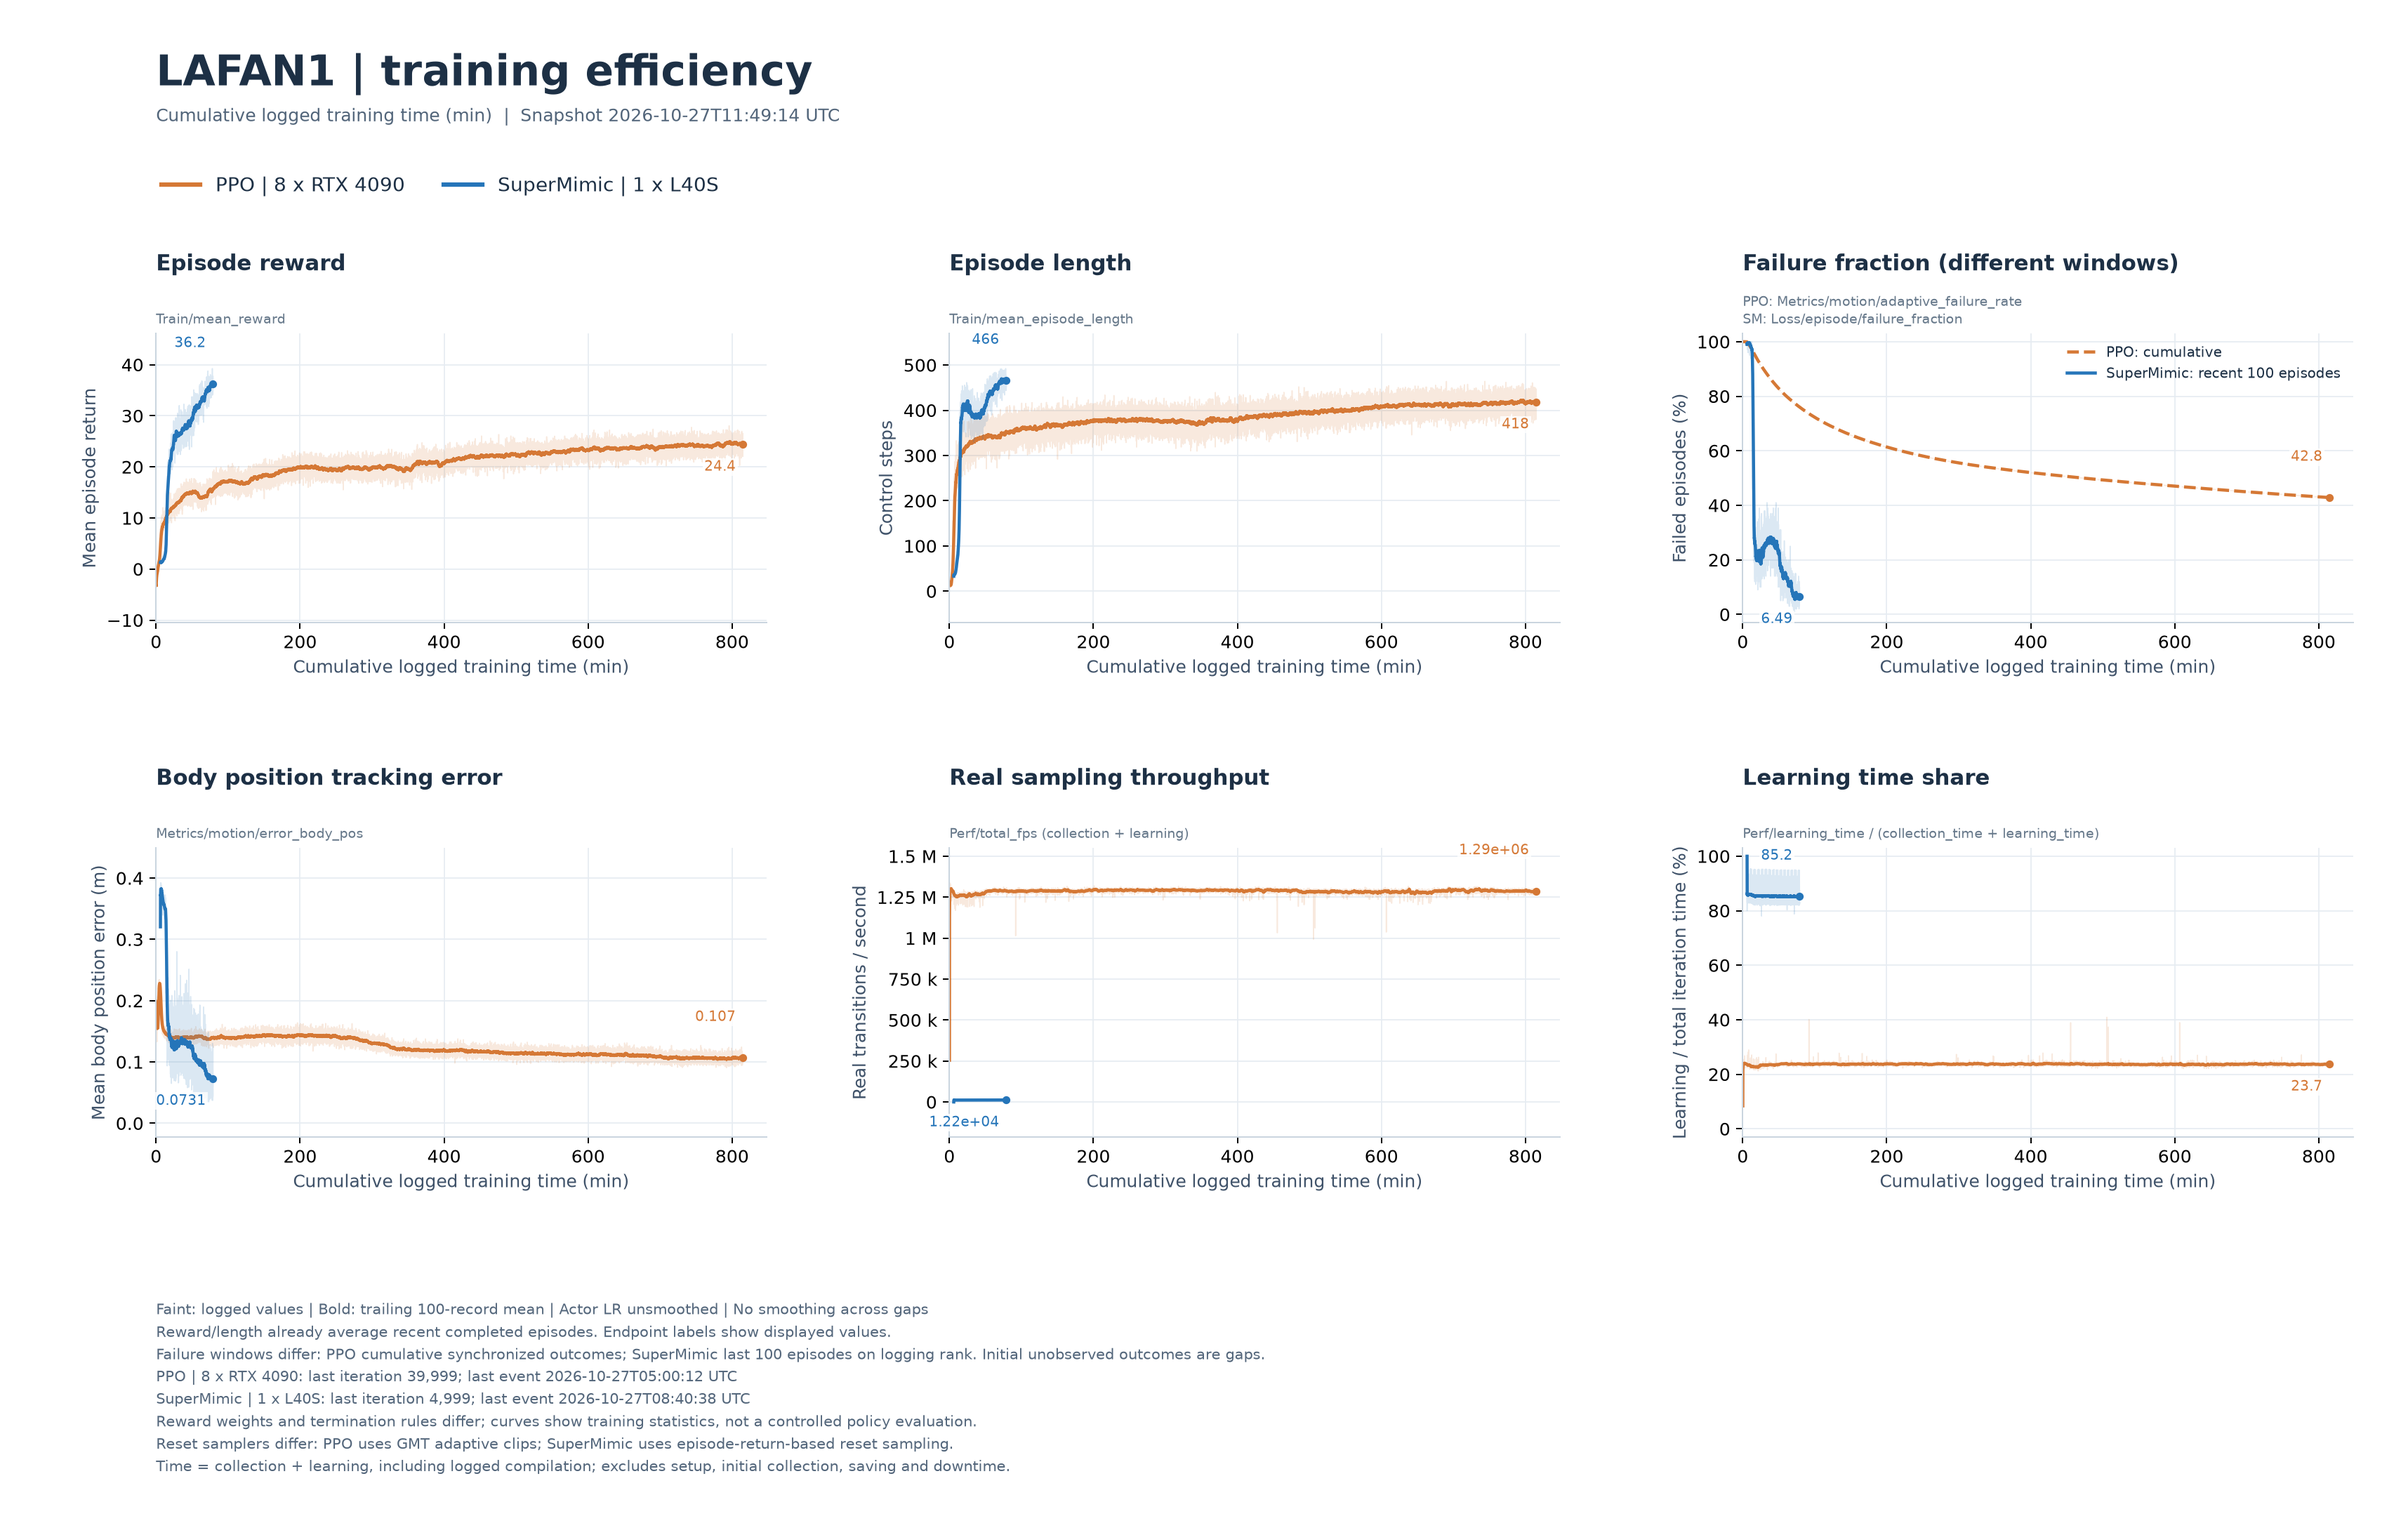
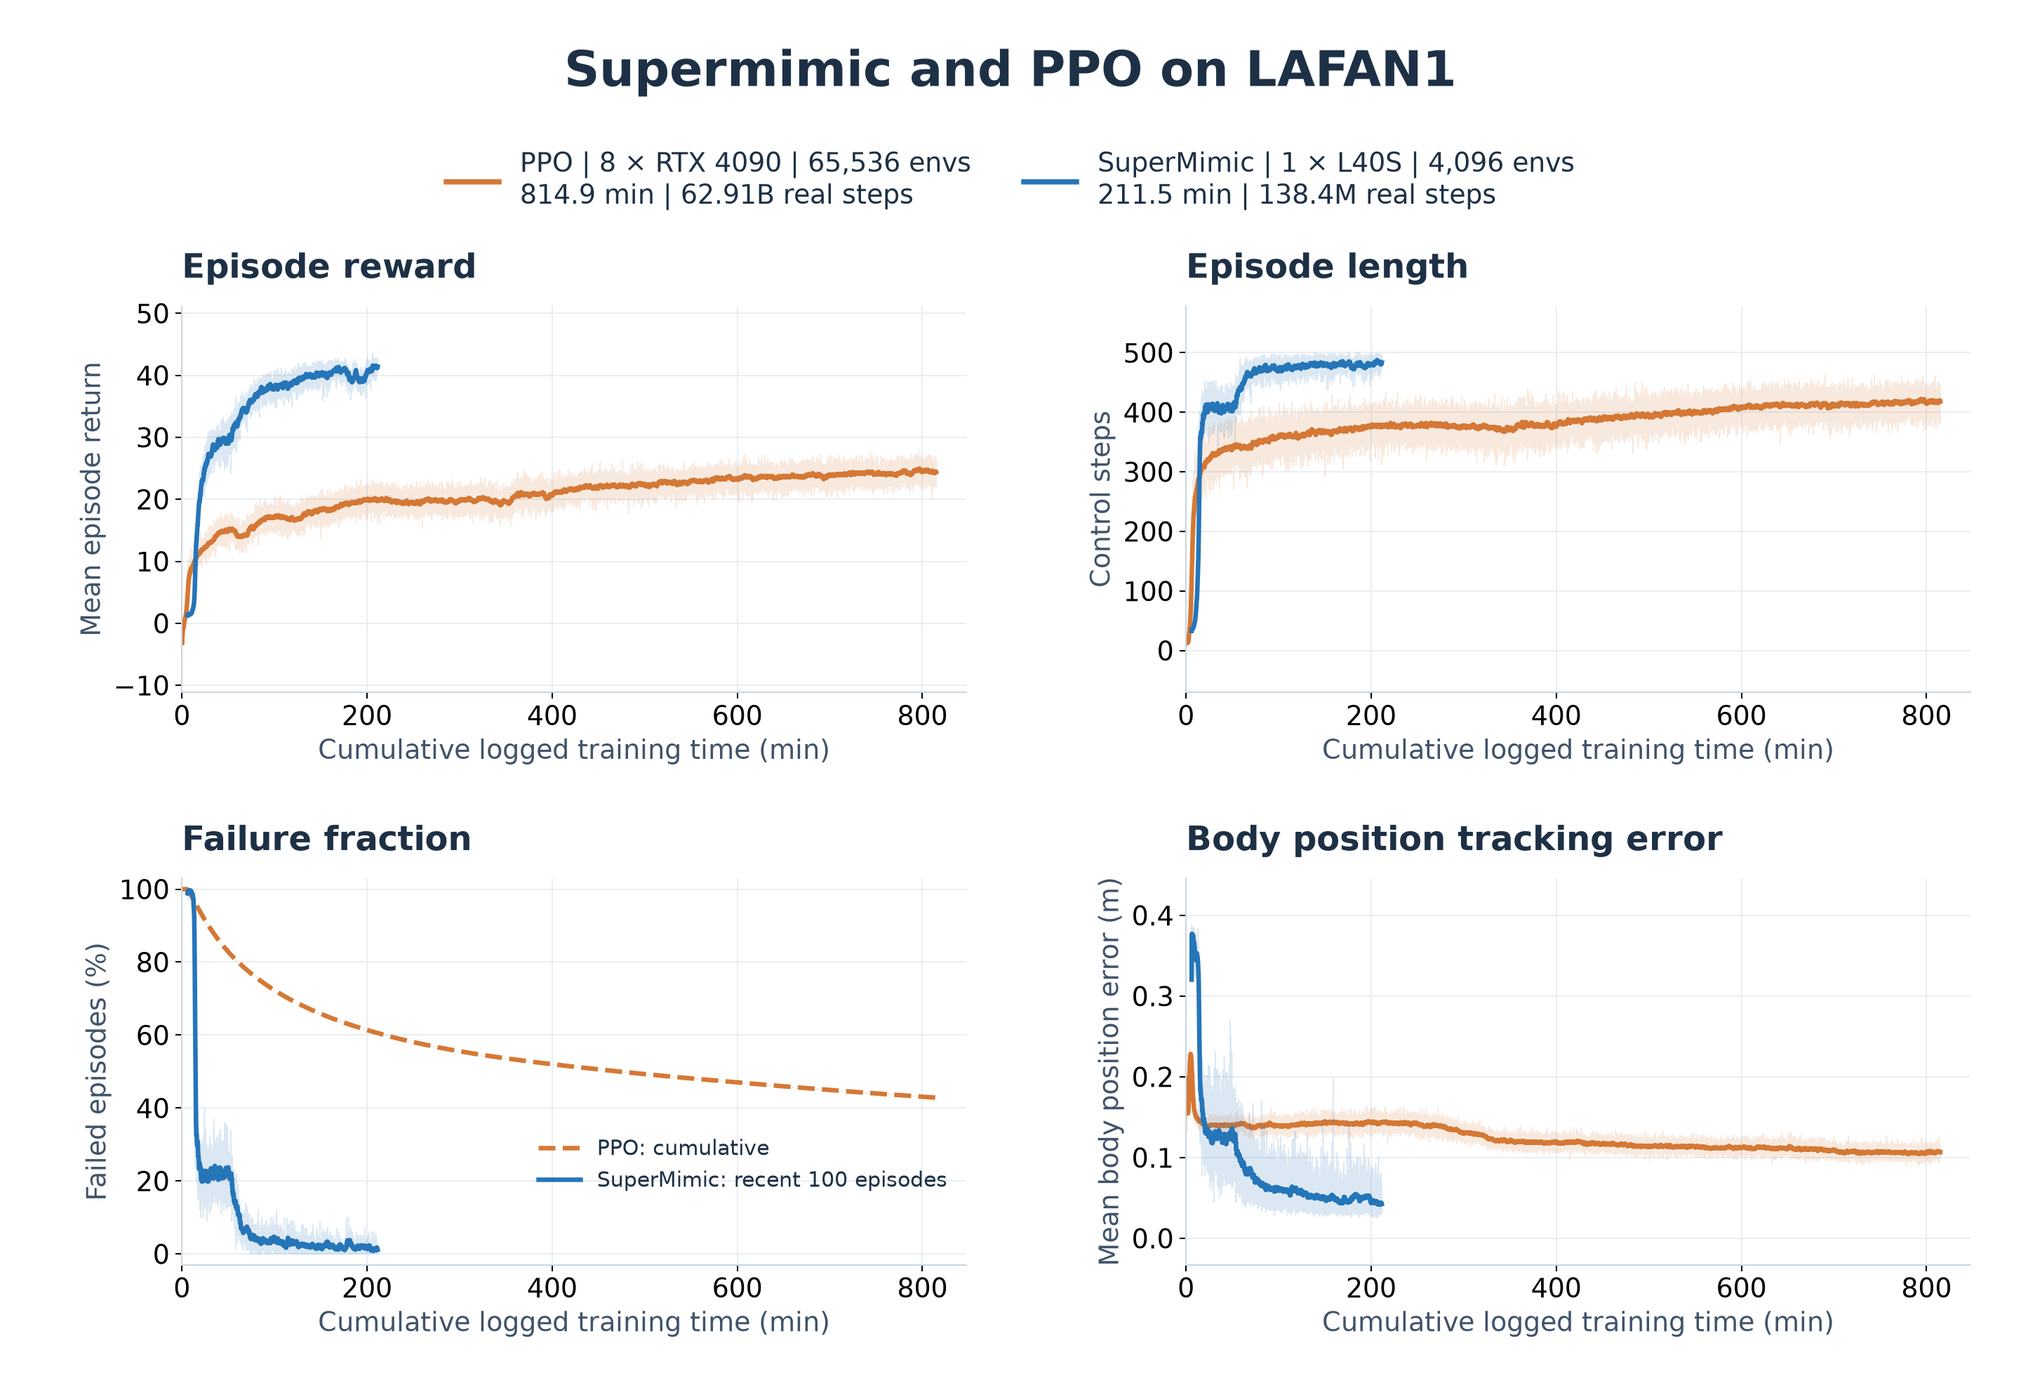
update results

diff --git a/src/supermimic/cli/plot.py b/src/supermimic/cli/plot.py
@@ -70,7 +70,7 @@ COMPARISON_PANELS = (
     "Train/mean_episode_length",
   ),
   Panel(
-    "Failure fraction (different windows)",
+    "Failure fraction",
     "Failed episodes (%)",
     (FAILURE,),
     "PPO: Metrics/motion/adaptive_failure_rate\nSM: Loss/episode/failure_fraction",
@@ -80,18 +80,6 @@ COMPARISON_PANELS = (
     "Mean body position error (m)",
     ("Metrics/motion/error_body_pos",),
     "Metrics/motion/error_body_pos",
-  ),
-  Panel(
-    "Real sampling throughput",
-    "Real transitions / second",
-    ("Perf/total_fps",),
-    "Perf/total_fps (collection + learning)",
-  ),
-  Panel(
-    "Learning time share",
-    "Learning / total iteration time (%)",
-    (LEARNING_SHARE,),
-    "Perf/learning_time / (collection_time + learning_time)",
   ),
 )
 SUPERMIMIC_PANELS = (
@@ -135,7 +123,7 @@ SUPERMIMIC_PANELS = (
 PANEL_GROUPS = {"comparison": COMPARISON_PANELS, "supermimic": SUPERMIMIC_PANELS}
 METRIC_TAGS = tuple(
   tag for panels in PANEL_GROUPS.values() for panel in panels for tag in panel.tags
-)
+) + ("Perf/total_fps", LEARNING_SHARE)
 CAPTURE_TAGS = tuple(
   dict.fromkeys(
     (
@@ -280,6 +268,14 @@ def read_sources(sources: list[Source]) -> list[Run]:
       raise ValueError(f"{source.path}: no supported training metrics recorded")
     for run in group:
       run.metadata.update(source.metadata)
+      max_iteration = run.metadata.get("max_iteration")
+      if max_iteration is not None:
+        if type(max_iteration) is not int or max_iteration < 0:
+          raise ValueError(f"{run.name}: max_iteration must be a nonnegative integer")
+        run.samples = {
+          tag: [sample for sample in samples if sample.step <= max_iteration]
+          for tag, samples in run.samples.items()
+        }
       if run.algorithm == "unknown":
         if any(
           tag.startswith(("Loss/world_model/", "Loss/actor/")) for tag in run.samples
@@ -606,12 +602,31 @@ def summarize(
   return panels
 
 
+def comparison_label(run: Run) -> str:
+  details = []
+  for axis in ("train-time", "real-steps"):
+    try:
+      values, warnings = axis_values(run, axis)
+    except ValueError:
+      continue
+    if warnings:
+      continue
+    last = values[max(values)]
+    if axis == "train-time":
+      details.append(f"{last:,.1f} min")
+    else:
+      steps = f"{last / 1000:,.2f}B" if last >= 1000 else f"{last:,.1f}M"
+      details.append(f"{steps} real steps")
+  return run.label + ("\n" + " | ".join(details) if details else "")
+
+
 def render_figure(runs: list[Run], curves: dict, summary: dict, title: str) -> Figure:
   panels = PANEL_GROUPS[summary["report"]]
+  comparison = summary["report"] == "comparison"
   axis = summary["x_axis"]
   style = {
     "font.family": "DejaVu Sans",
-    "font.size": 10,
+    "font.size": 15 if comparison else 10,
     "text.color": "#1D3045",
     "axes.labelcolor": "#40536A",
     "axes.edgecolor": "#CAD5DF",
@@ -633,37 +648,61 @@ def render_figure(runs: list[Run], curves: dict, summary: dict, title: str) -> F
   xmin = min(float(x.min()) for x in coordinates)
   xmax = max(float(x.max()) for x in coordinates)
   with plt.rc_context(style):  # pyright: ignore[reportArgumentType]
-    fig, axes = plt.subplots(2, 3, figsize=(19, 12))
+    fig, axes = plt.subplots(
+      2, 2 if comparison else 3, figsize=(16, 11) if comparison else (19, 12)
+    )
     fig.subplots_adjust(
-      left=0.065, right=0.98, bottom=0.25, top=0.78, hspace=0.78, wspace=0.30
+      left=0.09 if comparison else 0.065,
+      right=0.975 if comparison else 0.98,
+      bottom=0.09 if comparison else 0.25,
+      top=0.78,
+      hspace=0.48 if comparison else 0.78,
+      wspace=0.28 if comparison else 0.30,
     )
-    fig.suptitle(title, x=0.065, y=0.965, ha="left", fontsize=24, weight="bold")
-    fig.text(
-      0.065,
-      0.92,
-      f"{AXES[axis]}{' | logarithmic x-axis' if axis == 'real-steps' else ''}"
-      f"  |  Snapshot {summary['snapshot_created_utc'][:19]} UTC",
-      color="#53667B",
+    fig.suptitle(
+      title,
+      x=0.5 if comparison else 0.065,
+      y=0.965,
+      ha="center" if comparison else "left",
+      fontsize=28 if comparison else 24,
+      weight="bold",
     )
+    if not comparison:
+      fig.text(
+        0.065,
+        0.92,
+        f"{AXES[axis]}{' | logarithmic x-axis' if axis == 'real-steps' else ''}"
+        f"  |  Snapshot {summary['snapshot_created_utc'][:19]} UTC",
+        color="#53667B",
+      )
     fig.legend(
-      [Line2D([0], [0], color=summary["colors"][r.name], lw=2.5) for r in runs],
-      [r.label for r in runs],
-      loc="upper left",
-      bbox_to_anchor=(0.06, 0.895),
+      [
+        Line2D([0], [0], color=summary["colors"][r.name], lw=3 if comparison else 2.5)
+        for r in runs
+      ],
+      [comparison_label(r) if comparison else r.label for r in runs],
+      loc="upper center" if comparison else "upper left",
+      bbox_to_anchor=(0.5, 0.91) if comparison else (0.06, 0.895),
       ncol=min(3, len(runs)),
-      fontsize=11,
+      fontsize=15 if comparison else 11,
     )
     for ax, panel in zip(axes.flat, panels, strict=True):
-      ax.set_title(panel.title, loc="left", fontsize=12.5, pad=36)
-      ax.text(
-        0,
-        1.035,
-        panel.caption,
-        transform=ax.transAxes,
-        fontsize=7.7,
-        color="#66788A",
-        linespacing=1.3,
+      ax.set_title(
+        panel.title,
+        loc="left",
+        fontsize=19 if comparison else 12.5,
+        pad=16 if comparison else 36,
       )
+      if not comparison:
+        ax.text(
+          0,
+          1.035,
+          panel.caption,
+          transform=ax.transAxes,
+          fontsize=7.7,
+          color="#66788A",
+          linespacing=1.3,
+        )
       positive, missing, excluded, endpoints = [], [], [], []
       for run in runs:
         color = summary["colors"][run.name]
@@ -713,11 +752,11 @@ def render_figure(runs: list[Run], curves: dict, summary: dict, title: str) -> F
           ax.plot(
             *line_points(curve, values),
             color=color,
-            lw=1.8,
+            lw=2.6 if comparison else 1.8,
             linestyle=linestyle,
             label=label or "_nolegend_",
           )
-          if valid.any():
+          if valid.any() and not comparison:
             last = int(np.flatnonzero(valid)[-1])
             ax.plot(curve.x[last], values[last], "o", color=color, ms=3.5)
             endpoints.append((values[last], curve.x[last], color))
@@ -765,13 +804,17 @@ def render_figure(runs: list[Run], curves: dict, summary: dict, title: str) -> F
           0.03,
           "\n".join(messages),
           transform=ax.transAxes,
-          fontsize=8,
+          fontsize=12 if comparison else 8,
           color="#66788A",
         )
       if (
         len(panel.tags) > 1 or panel.tags == (FAILURE,)
       ) and ax.get_legend_handles_labels()[0]:
-        ax.legend(loc="best", fontsize=8)
+        ax.legend(
+          loc="lower right" if comparison else "best",
+          bbox_to_anchor=(1, 0.14) if comparison else None,
+          fontsize=12 if comparison else 8,
+        )
       ax.set_xlabel(AXES[axis])
       ax.set_ylabel(panel.ylabel)
       ax.set_axisbelow(True)
@@ -784,17 +827,14 @@ def render_figure(runs: list[Run], curves: dict, summary: dict, title: str) -> F
         ax.set_xlim(0, max(xmax * 1.04, 1e-6))
         if axis == "iteration":
           ax.xaxis.set_major_formatter(FuncFormatter(lambda value, _: f"{value:,.0f}"))
+    if comparison:
+      return fig
     footer = [
       f"Faint: logged values | Bold: trailing {summary['smooth_window']}-record mean"
       " | Actor LR unsmoothed | No smoothing across gaps",
       "Reward/length already average recent completed episodes. "
       "Endpoint labels show displayed values.",
     ]
-    if summary["report"] == "comparison":
-      footer.append(
-        "Failure windows differ: PPO cumulative synchronized outcomes; "
-        "SuperMimic last 100 episodes on logging rank. Initial unobserved outcomes are gaps."
-      )
     for run in runs:
       records = [s for tag in METRIC_TAGS for s in metric_records(run, tag)]
       footer.append(
@@ -868,10 +908,10 @@ def generate_reports(
           "Time = collection + learning, including logged compilation; "
           "excludes setup, initial collection, saving and downtime."
         )
-      heading = (
-        "training efficiency" if report == "comparison" else "SuperMimic diagnostics"
+      figure_title = (
+        title if report == "comparison" else f"{title} | SuperMimic diagnostics"
       )
-      figure = render_figure(selected, curves, summary, f"{title} | {heading}")
+      figure = render_figure(selected, curves, summary, figure_title)
       stem = f"{report}_{axis}"
       figure.savefig(output / f"{stem}.png", dpi=180)
       plt.close(figure)

diff --git a/README.md b/README.md
@@ -11,12 +11,14 @@ The experiment uses 40 retargeted G1 motion clips at 50 Hz:
 - **SuperMimic Lite:** 1 × NVIDIA L40S, **4,096 environments**.
 - **PPO baseline:** 8 × NVIDIA RTX 4090, **8,192 environments per GPU** (65,536 total).
 
-The archived full-motion evaluation starts each clip at frame zero with seed 42. A motion succeeds when it reaches the end without a failure termination.
+The full-motion evaluations below were completed on 2026-10-27 using 40 parallel environments, starting each clip at frame zero with seed 42. Both methods use the same evaluation protocol, with randomization and reset, observation and action noise disabled. A motion succeeds when it reaches the end without a failure termination.
 
-| Method | Checkpoint | Completed motions | Success rate |
-| --- | --- | ---: | ---: |
-| PPO | `model_39999.pt` | 24/40 | 60.0% |
-| **SuperMimic Lite** | `model_5000.pt` | **33/40** | **82.5%** |
+| Method | Checkpoint | Logged training time | Real environment steps | Successful motions | Success rate |
+| --- | --- | ---: | ---: | ---: | ---: |
+| PPO | `model_39999.pt` | 814.9 min (13.58 h) | 62,914,560,000 | 24/40 | 60.0% |
+| **SuperMimic Lite** | `model_13500.pt` | **211.5 min (3.52 h)** | **138,371,072** | **39/40** | **97.5%** |
+
+The plotted runs stop at these evaluated checkpoints: 40,000 PPO updates and 13,500 SuperMimic updates. Real environment steps count simulator transitions across all environments and GPUs; SuperMimic's count includes initial collection and excludes imagined rollouts. SuperMimic's mean motion completion is 97.61%, with `fallAndGetUp1_subject1` the only failed clip.
 
 ![LAFAN1 training curves against logged training time](docs/results/lafan1_train-time.png)
 
@@ -119,6 +121,8 @@ Plot a training run:
 ```bash
 uv run --no-sync supermimic plot --source /path/to/run --output-dir logs/plots
 ```
+
+Comparison plots use four panels for reward, episode length, failure fraction and body position error. Their legends include logged training time and real environment steps when available. A JSON source can set `max_iteration` to the last included zero-based iteration; for SuperMimic `model_N.pt`, use `N - 1` to align curves with that checkpoint.
 
 ## License and attribution
 
